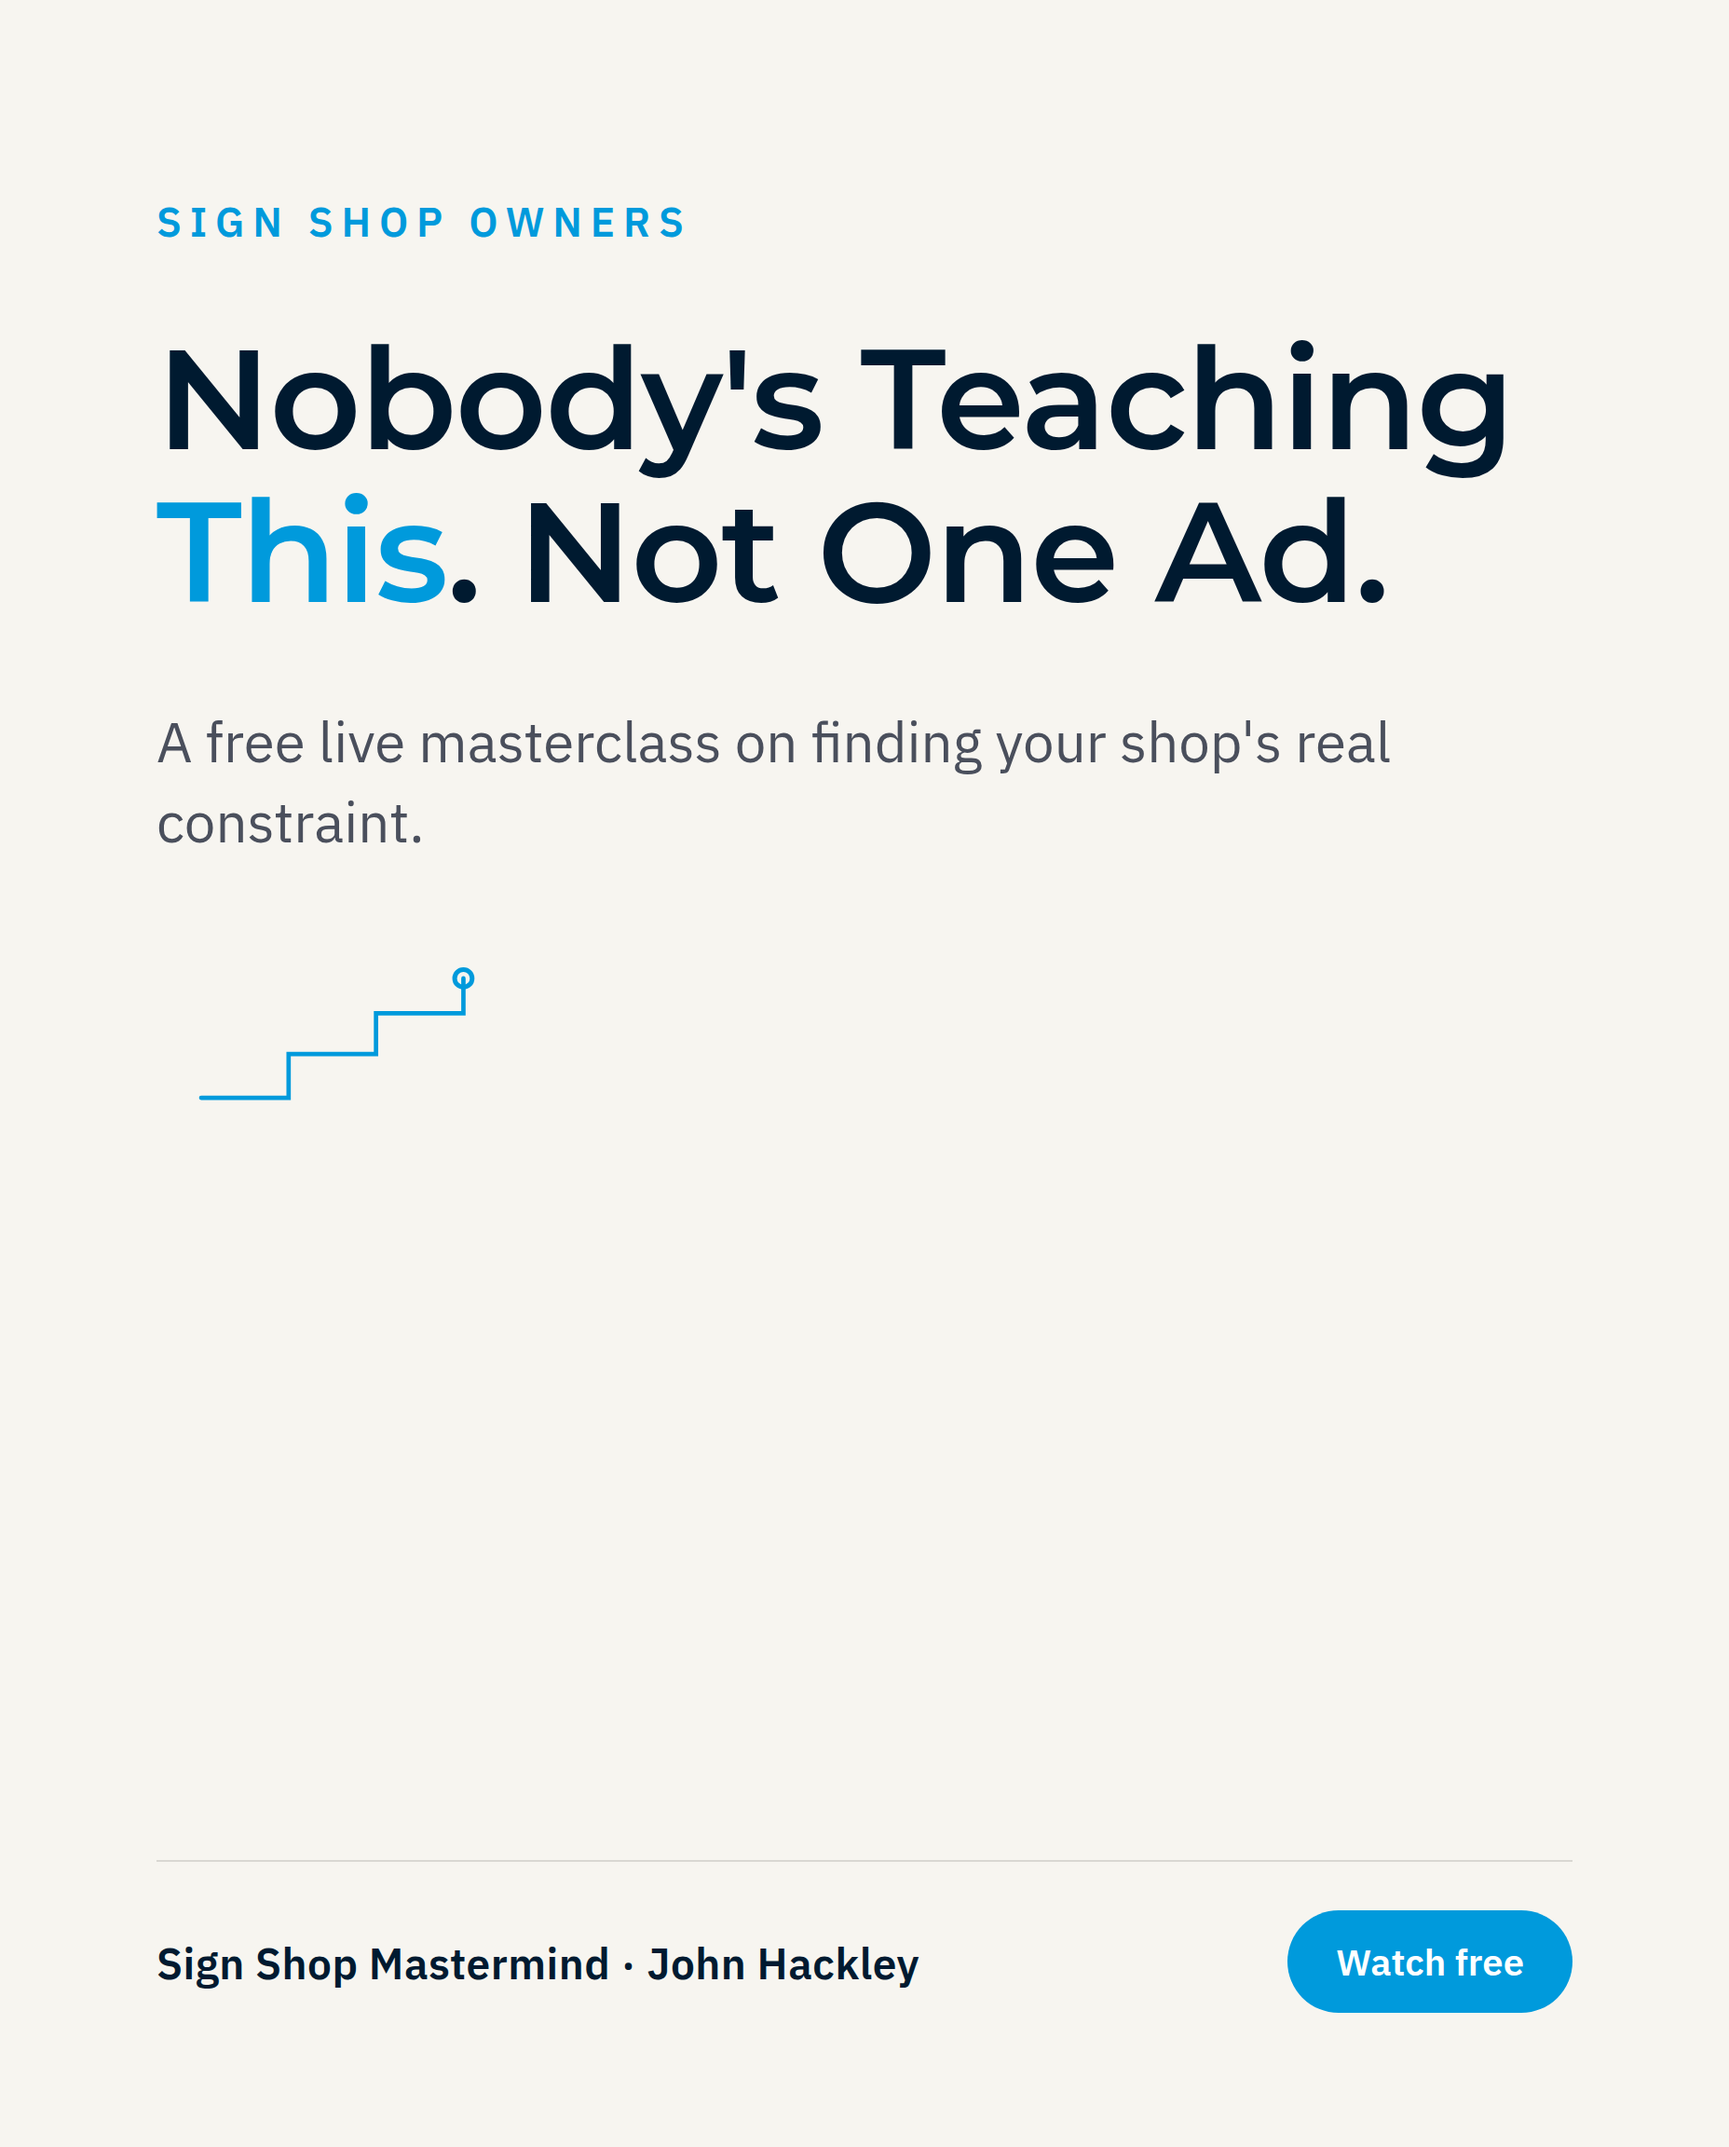
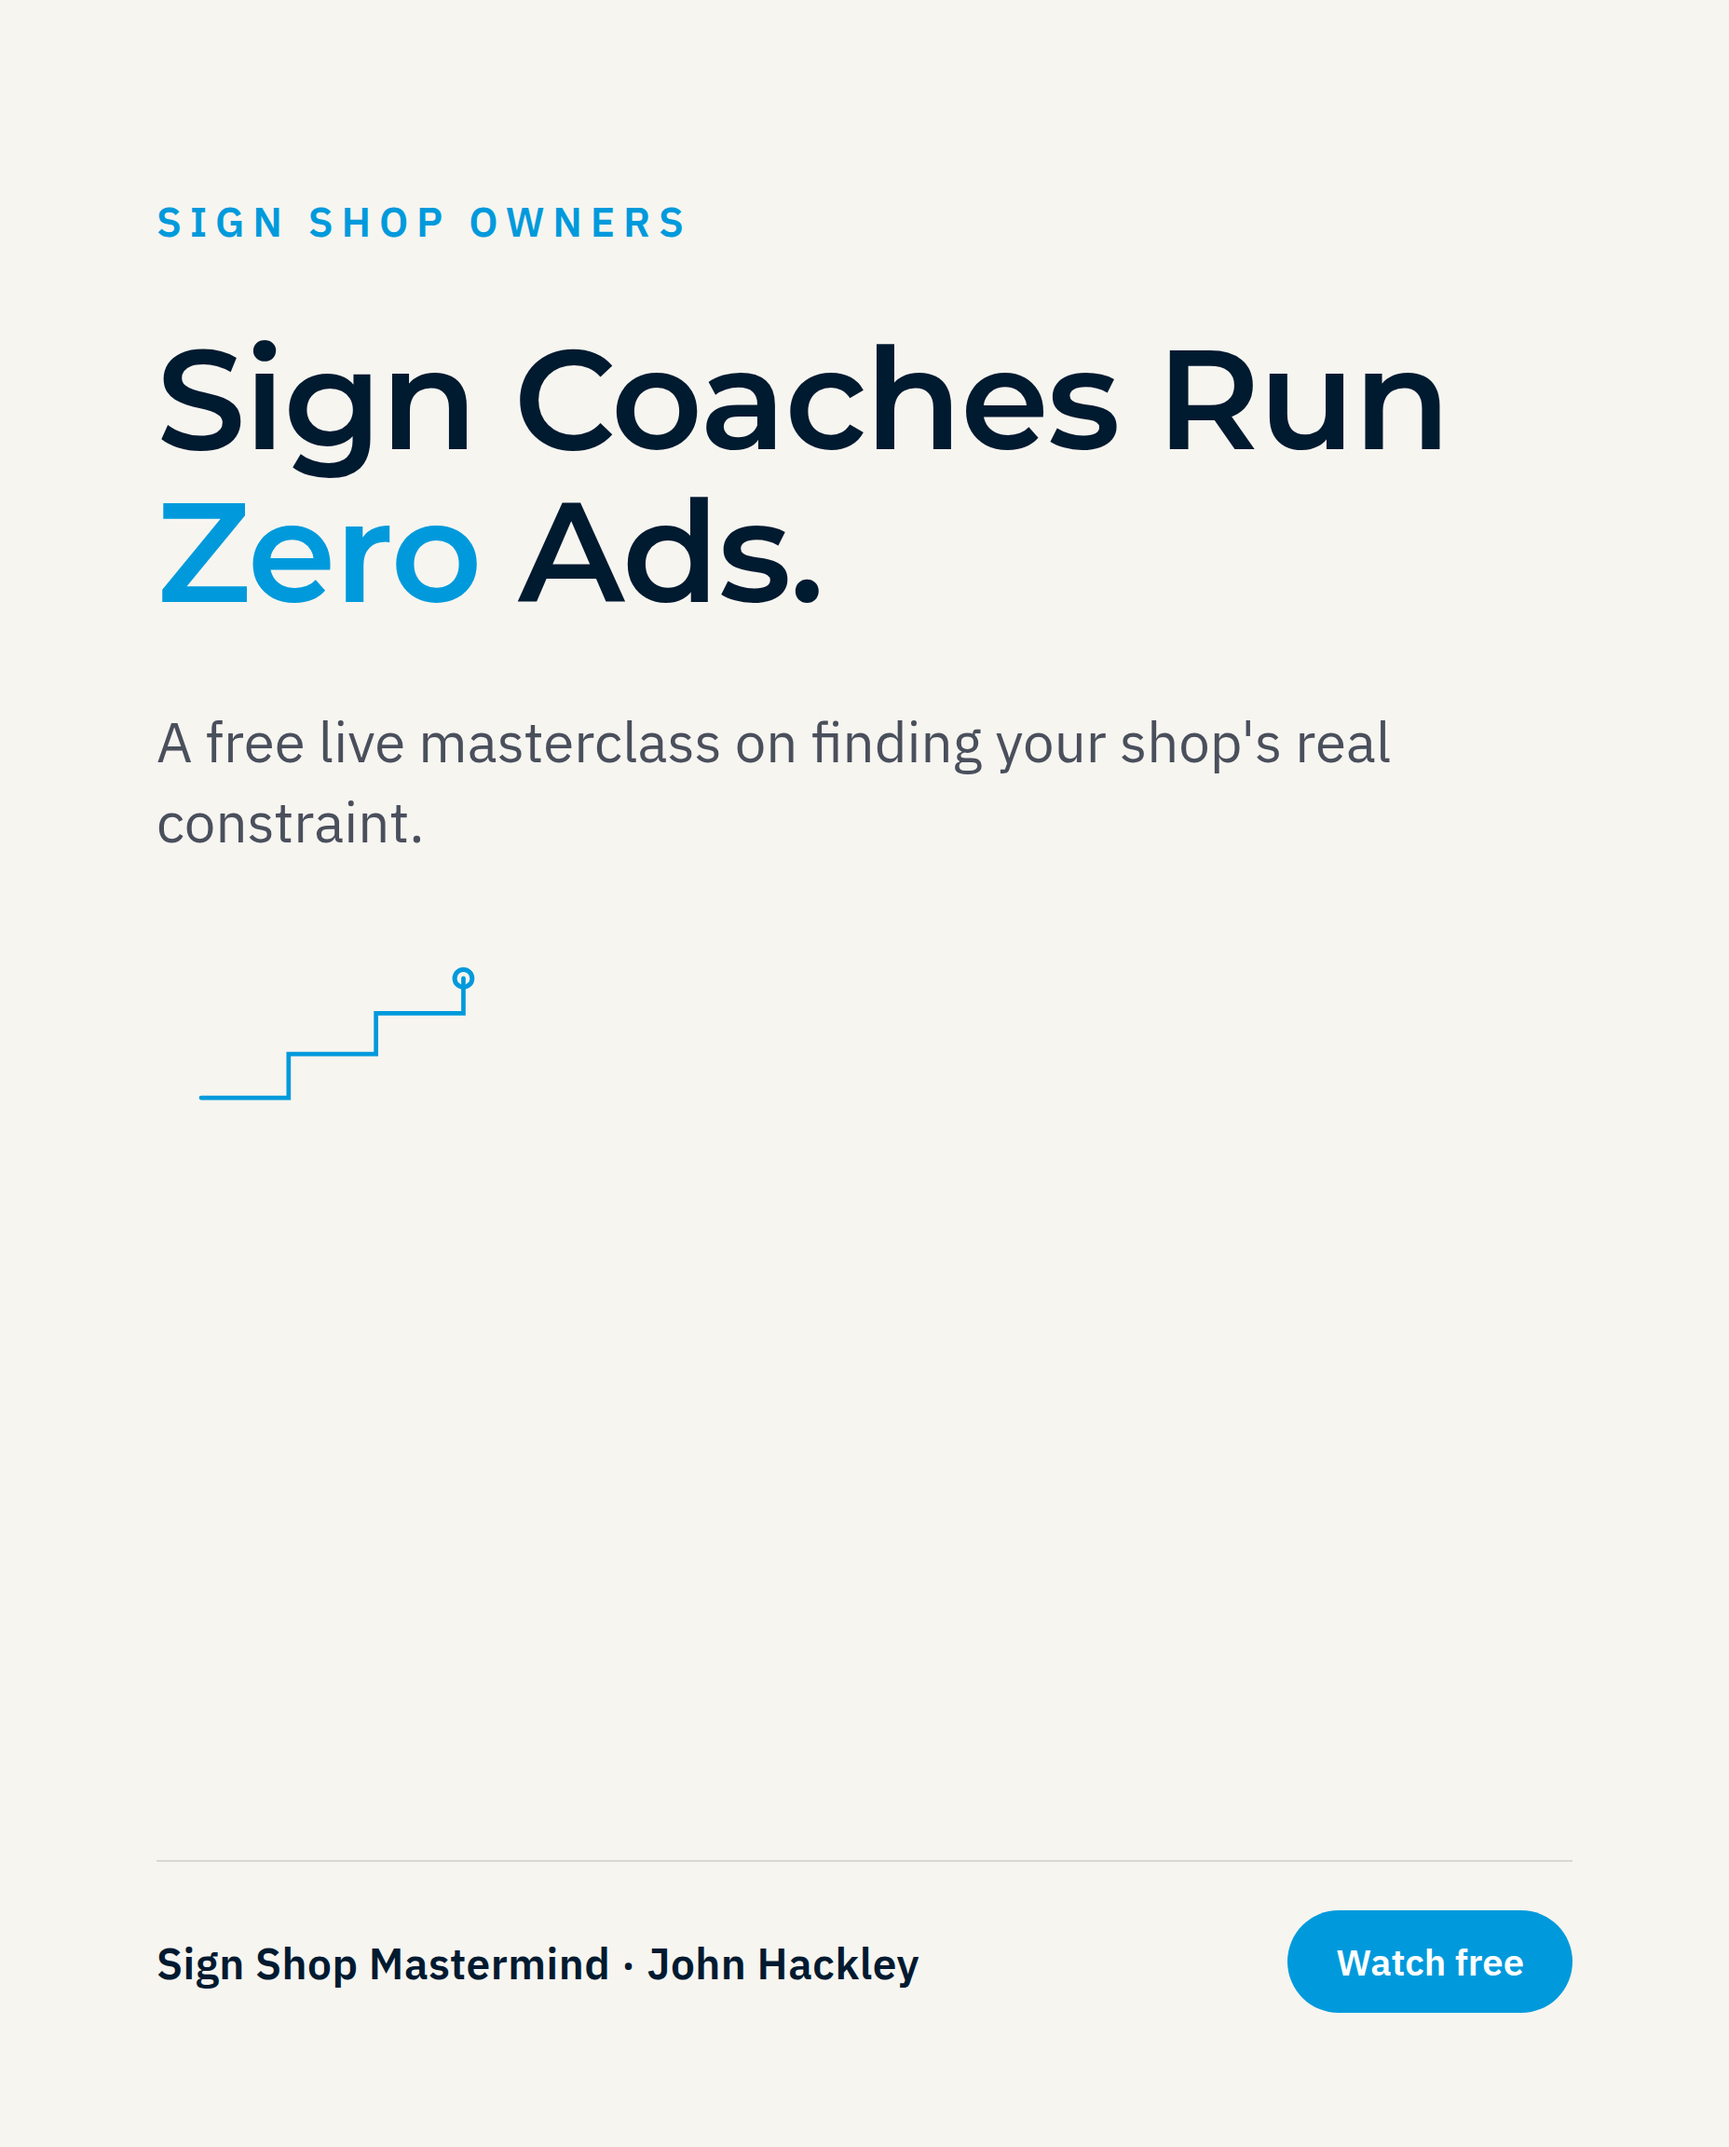
showcase: john-hackley

Changed region(s): [[0.0938, 0.1562, 0.875, 0.2812]]

diff --git a/john-hackley/index.html b/john-hackley/index.html
@@ -88,7 +88,7 @@
     <p>Four ad directions in your own colors, built from your own material, written to stop a sign shop owner mid-scroll.</p>
     <div class="ad-grid">
       <img src="/john-hackley/ad01.png" alt="Ad concept: Find What's Actually Slowing You Down">
-      <img src="/john-hackley/ad02.png" alt="Ad concept: Nobody's Teaching This. Not One Ad.">
+      <img src="/john-hackley/ad02.png" alt="Ad concept: Sign Coaches Run Zero Ads.">
       <img src="/john-hackley/ad03.png" alt="Ad concept: Stop Selling Into A Bottleneck">
       <img src="/john-hackley/ad04.png" alt="Ad concept: Find the Constraint, Fix the Shop masterclass invitation">
     </div>

diff --git a/john-hackley/deck.html b/john-hackley/deck.html
@@ -71,7 +71,7 @@
 <div class="nav prev" id="prev"></div>
 <div class="nav next" id="next"></div>
 <div class="hud"><i id="bar"></i></div>
-<div class="count" id="count">01 / 20</div>
+<div class="count" id="count">01 / 19</div>
 <div class="brand-foot">Sign Shop Mastermind</div>
 <div class="hint" id="hint">&rarr; click or arrow keys</div>
 
